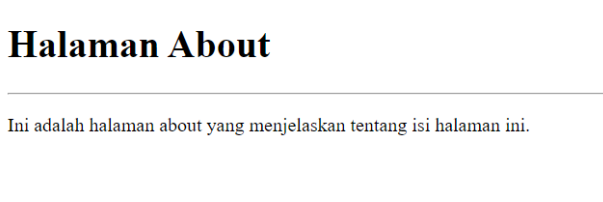
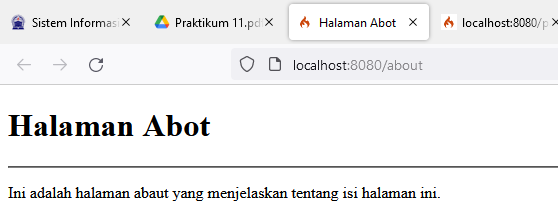
menambahkan teks

diff --git a/README.md b/README.md
@@ -1,3 +1,5 @@
+## PRAKTIKUM 11
+
 # Lab11Web
 
 | Nama    | Agus sanjaya    |
@@ -222,4 +224,11 @@ footer.php
 File app/view/template/header.php
 ![Lab11Web](img/header%20php.png)
 File app/view/template/footer.php
-![Lab11Web](img/footer%20php.png)
+![Lab11Web](img/FOOTER%20PHP.png)<br>
+
+Kemudian ubah file app/view/about.php seperti berikut.
+![Lab11Web](img/header%20footer.png)
+
+Selanjutnya refresh tampilan pada alamat http://localhost:8080/about
+![Lab11Web](img/layout%20sederhana.png)
+
